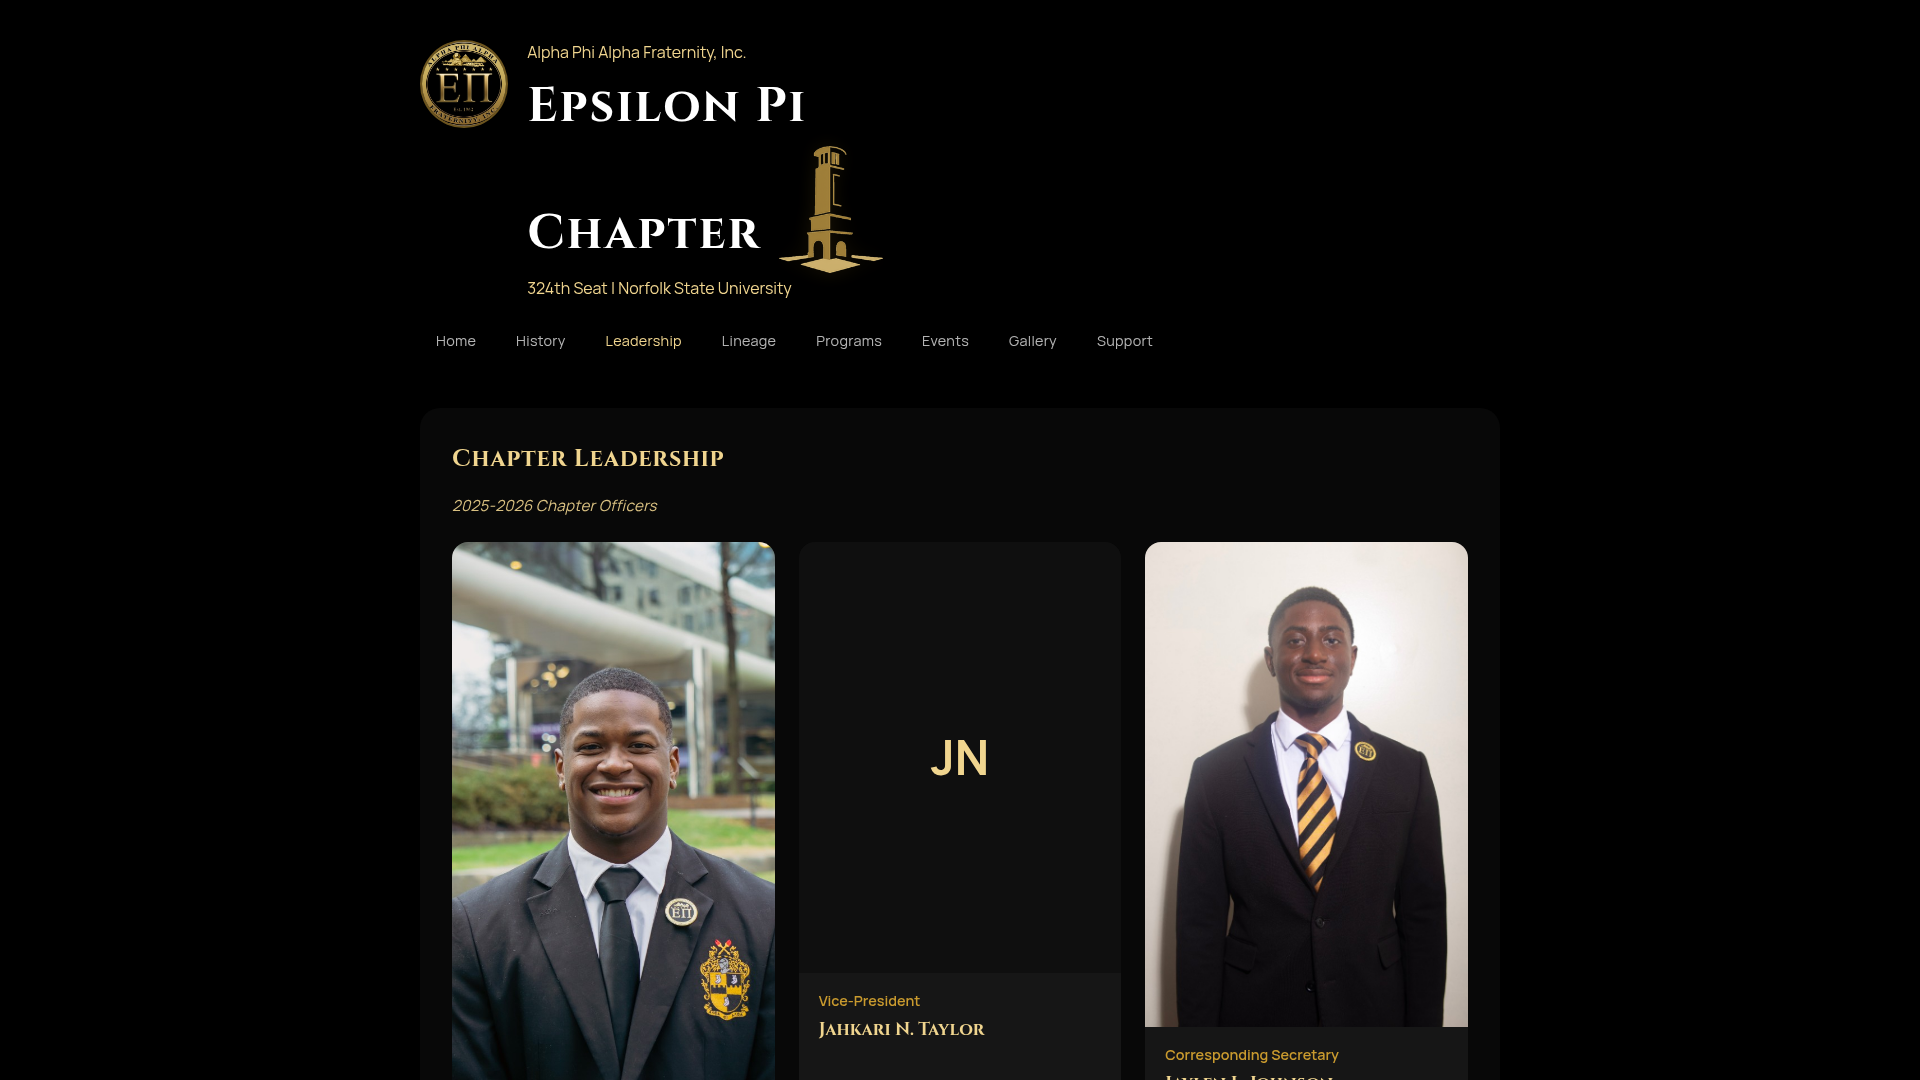
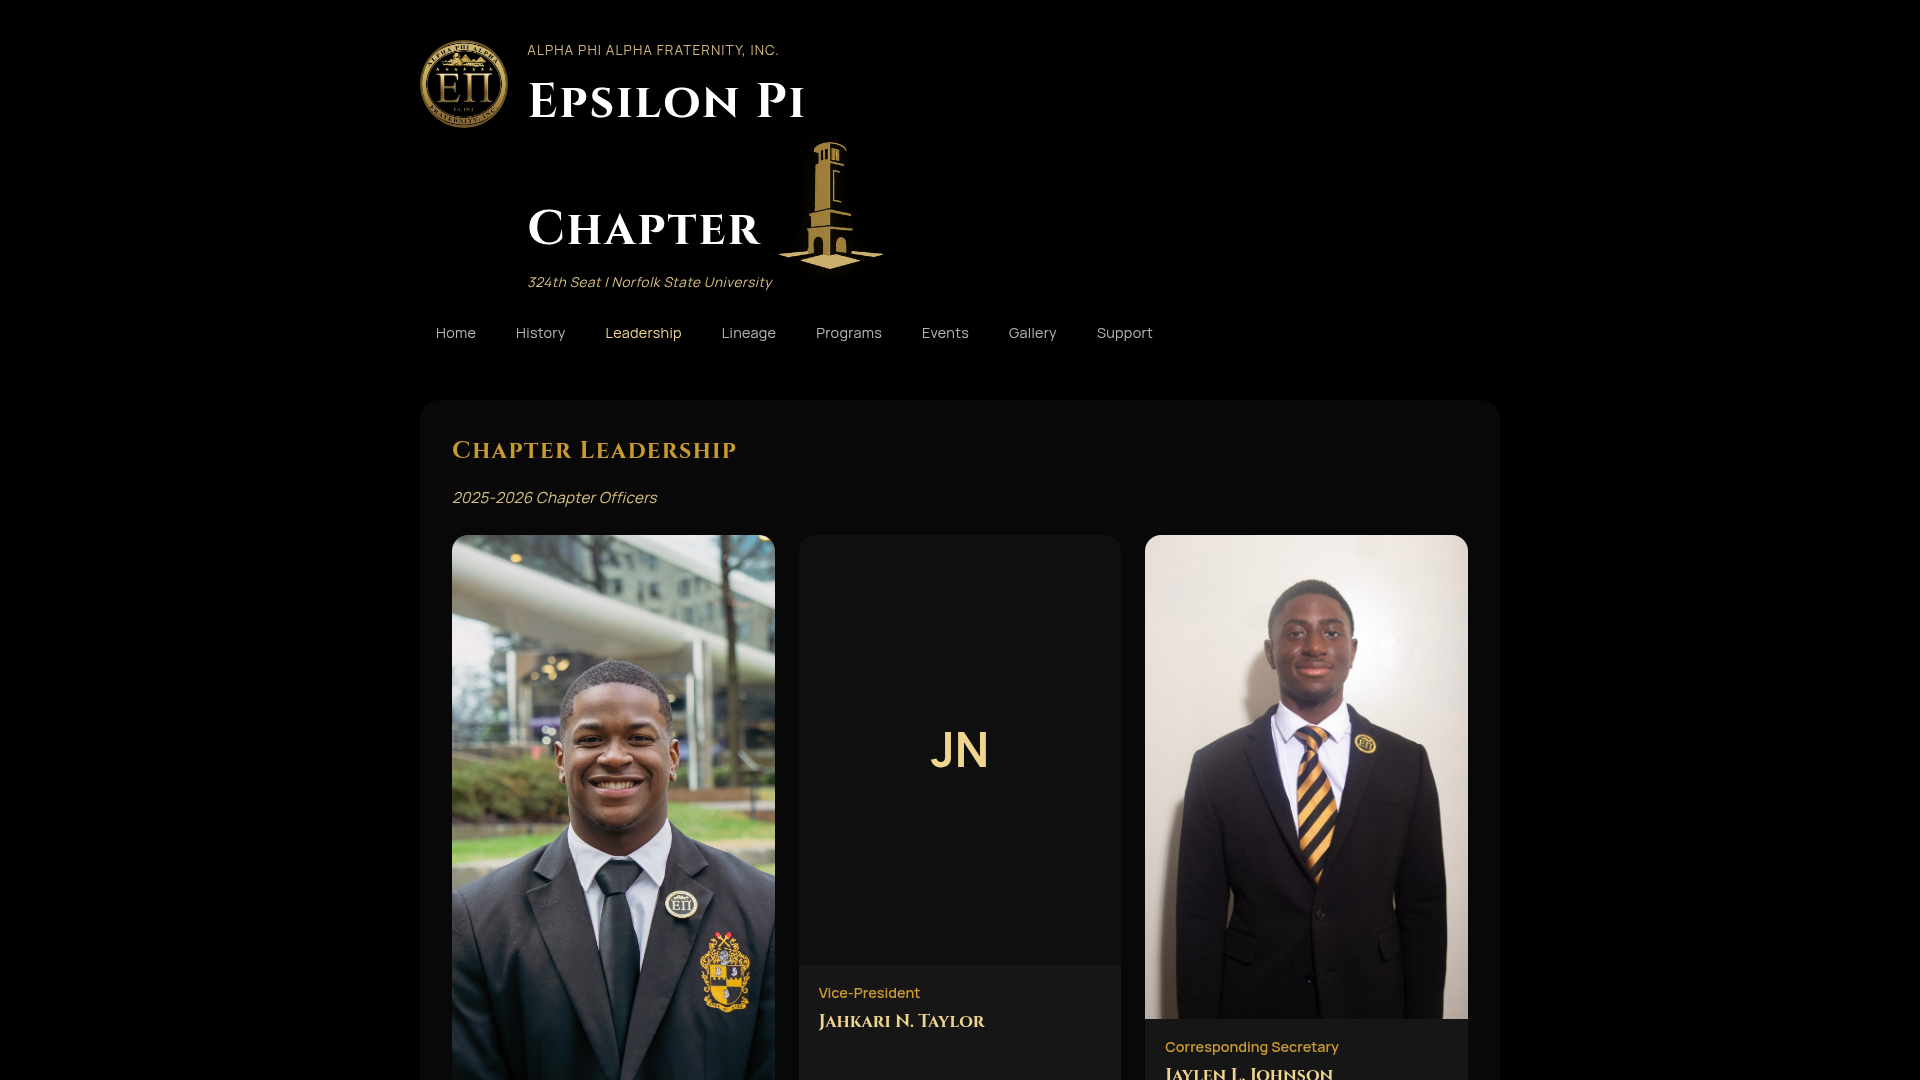
Apply sitewide gold typography to match Awards & Achievements
Original task: promote every section/card heading on the Epsilon Pi
site to use the same brighter saturated gold (#c99a2e), Cinzel,
font-weight 700, and 0.06em letter-spacing as the new "Awards and
Achievements" section, so the whole site reads as one identity.

Changes (epsilon-pi-site/styles.css only):
- .panel h2 — promoted to --gold + bold + 0.06em (was --gold-soft, no
  weight, 0.03em). Covers Home/History/Leadership/Programs/Events/
  Lineage/Support/Gallery in one shot.
- .card h3 — promoted to --gold + bold + 0.06em + 1.25rem, added
  margin-top: 0. Covers Founding Date, Charter Members, Past Event
  Highlights, etc.
- .lineage-item h3 — added Cinzel + --gold + bold + 0.06em + 1.1rem.
- .rap-sheet-name (lineage modal) — promoted to --gold + bold + 0.06em.
- .events-calendar-event h4 — added Cinzel + --gold + bold + 0.06em.
- .support-us-title — kept dark color (sits on gold bg) but bumped to
  bold + 0.06em + 1.25rem.
- .eyebrow / .chapter-subtitle — tuned as a deliberate quieter sub-tier:
  eyebrow is uppercase 0.85rem with 0.08em tracking; chapter subtitle
  stays italic with 0.04em tracking. Both keep --gold-soft.

No HTML, content, layout, or behavior changes. Pure visual polish.

Validated via screenshots of Home, History, Leadership, Programs,
Events, Lineage, and Support pages — all section headings now match
the "Awards and Achievements" treatment exactly.

Not pushed to GitHub yet — per user workflow, awaiting explicit
[…]

diff --git a/epsilon-pi-site/styles.css b/epsilon-pi-site/styles.css
@@ -95,10 +95,18 @@ main,
 .chapter-subtitle {
   margin: 0;
   color: var(--gold-soft);
+  font-size: 0.85rem;
+  letter-spacing: 0.08em;
+  text-transform: uppercase;
+  opacity: 0.85;
 }
 
 .chapter-subtitle {
   white-space: nowrap;
+  text-transform: none;
+  letter-spacing: 0.04em;
+  font-style: italic;
+  opacity: 0.9;
 }
 
 .main-nav {
@@ -146,9 +154,10 @@ main {
   margin-top: 0;
   margin-bottom: 1rem;
   font-family: "Cinzel", Georgia, serif;
-  color: var(--gold-soft);
-  letter-spacing: 0.03em;
+  color: var(--gold);
+  letter-spacing: 0.06em;
   font-size: 1.5rem;
+  font-weight: 700;
 }
 
 .hero-panel {
@@ -221,9 +230,12 @@ main {
 }
 
 .card h3 {
-  color: var(--gold-soft);
+  margin-top: 0;
+  color: var(--gold);
   font-family: "Cinzel", Georgia, serif;
-  letter-spacing: 0.04em;
+  letter-spacing: 0.06em;
+  font-weight: 700;
+  font-size: 1.25rem;
 }
 
 .card p {
@@ -423,8 +435,11 @@ main {
 
 .events-calendar-event h4 {
   margin: 0;
-  color: var(--gold-soft);
+  font-family: "Cinzel", Georgia, serif;
+  color: var(--gold);
   font-size: 1rem;
+  letter-spacing: 0.06em;
+  font-weight: 700;
 }
 
 .events-calendar-event-meta {
@@ -726,8 +741,11 @@ main {
 
 .lineage-item h3 {
   margin: 0;
-  font-size: 1rem;
-  color: var(--gold-soft);
+  font-family: "Cinzel", Georgia, serif;
+  font-size: 1.1rem;
+  color: var(--gold);
+  letter-spacing: 0.06em;
+  font-weight: 700;
 }
 
 .lineage-item p {
@@ -1411,7 +1429,9 @@ main {
 .rap-sheet-name {
   font-family: "Cinzel", Georgia, serif;
   font-size: 1.25rem;
-  color: var(--gold-soft);
+  color: var(--gold);
+  letter-spacing: 0.06em;
+  font-weight: 700;
   margin: 0.5rem 0 0;
 }
 
@@ -1494,8 +1514,10 @@ main {
 .support-us-title {
   margin: 0 0 0.75rem;
   font-family: "Cinzel", Georgia, serif;
-  font-size: 1.1rem;
+  font-size: 1.25rem;
   color: #0c0d0f;
+  letter-spacing: 0.06em;
+  font-weight: 700;
 }
 
 .support-us-links {
